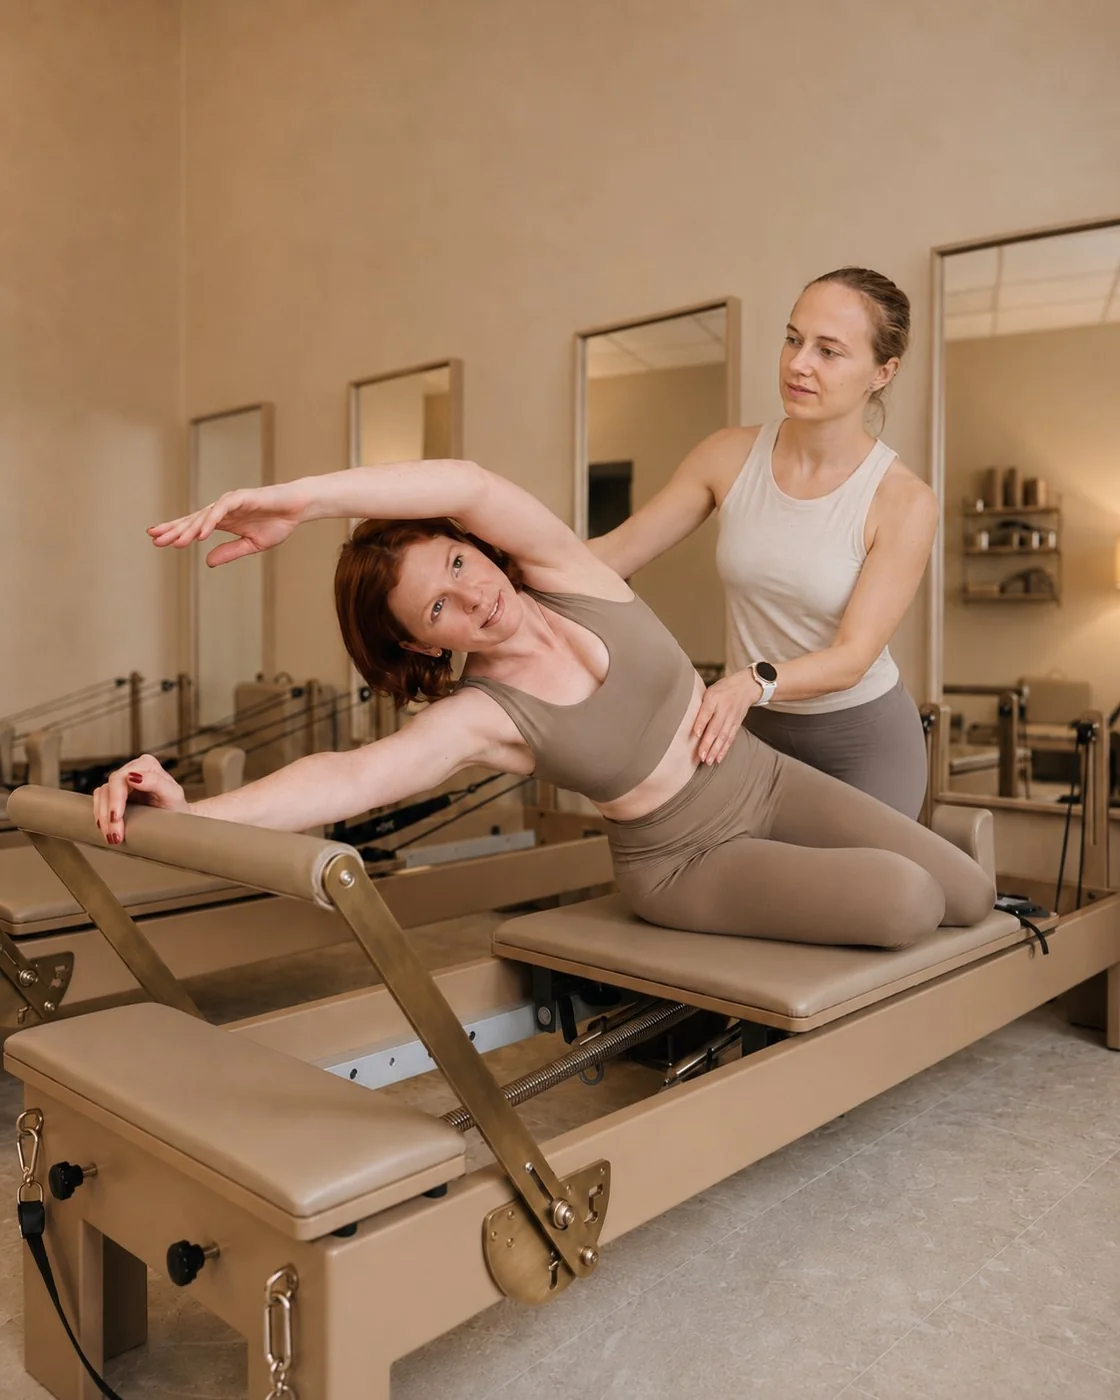
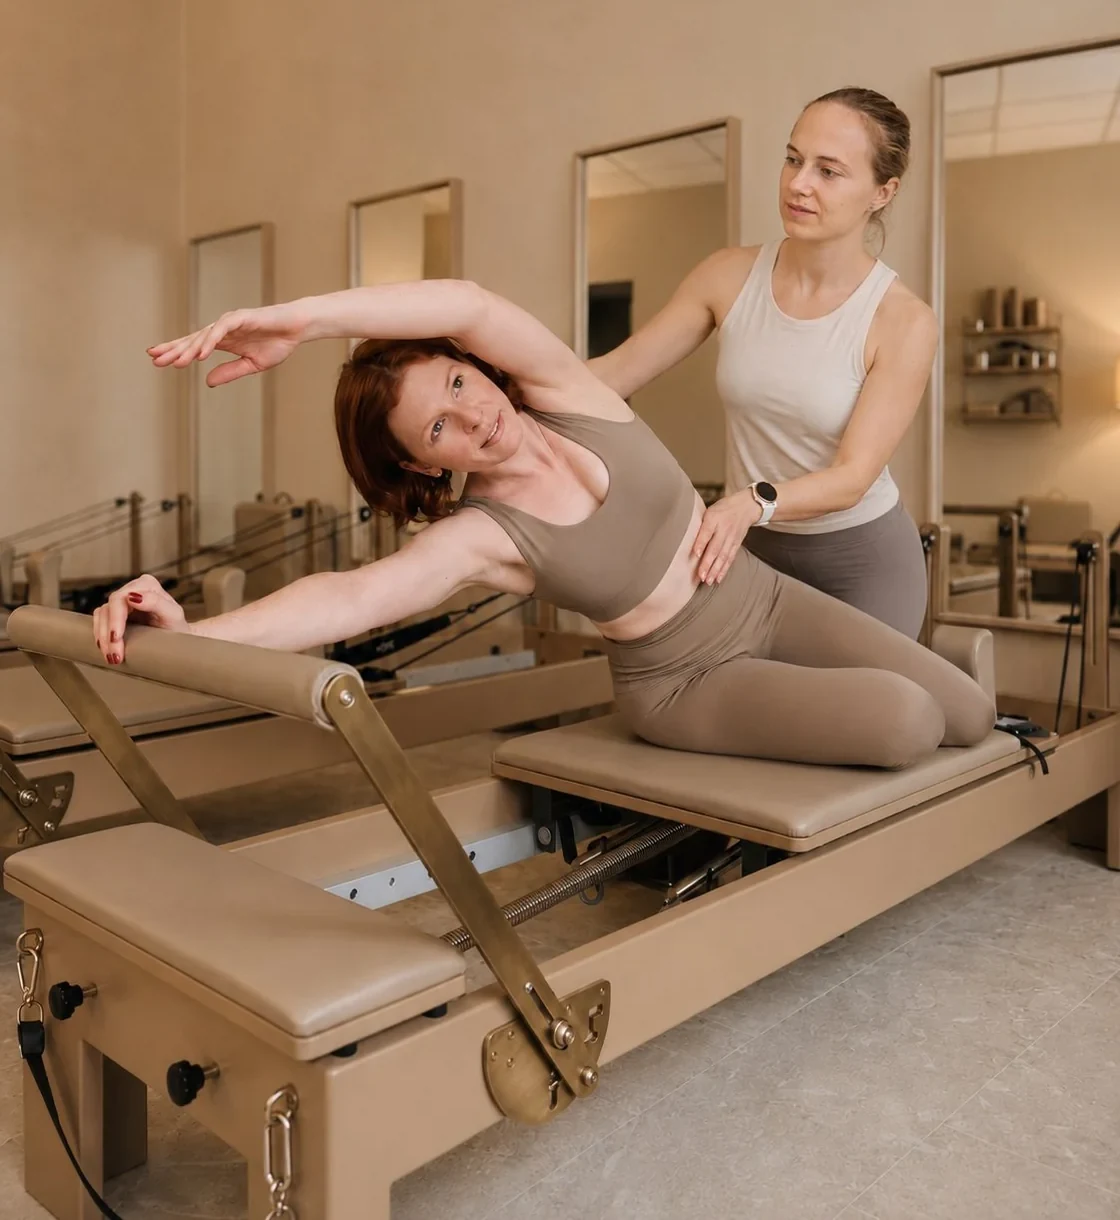
Physiocoaching-Foto: leere Wand oben abgeschnitten
Claude-Session: https://claude.ai/code/session_012ya1efxfL3v3X2e5rBHkD9

diff --git a/kurse.html b/kurse.html
@@ -122,14 +122,14 @@
 <link rel="stylesheet" href="https://fonts.googleapis.com/css2?family=Playfair+Display:ital,wght@0,400;0,500;1,400&family=Poppins:wght@300;400;500;600&display=swap">
 <link rel="stylesheet" href="/assets/site.css">
 <style>
-@media (min-width:700px){ .ku-breit{grid-column:1/-1} .ku-breit .bild{aspect-ratio:16/9} .ku-breit .bild img{object-position:center 30%!important} }
+@media (min-width:700px){ .ku-breit{grid-column:1/-1} .ku-breit .bild{aspect-ratio:16/9} .ku-breit .bild img{object-position:center 8%!important} }
 @media (min-width:1024px){
   .seite .raster:has(.ku-breit){grid-template-columns:repeat(3,minmax(0,1fr))}
   .ku-breit{display:grid;grid-template-columns:minmax(0,5fr) minmax(0,6fr);grid-template-rows:1fr repeat(5,auto) 1fr;column-gap:48px;min-height:460px}
   .ku-breit > *{grid-column:2}
   .ku-breit > :nth-child(2){grid-row:2}.ku-breit > :nth-child(3){grid-row:3}.ku-breit > :nth-child(4){grid-row:4}.ku-breit > :nth-child(5){grid-row:5}.ku-breit > :nth-child(6){grid-row:6}
   .ku-breit .bild{grid-column:1;grid-row:1/-1;margin:-24px 0 -24px -24px;aspect-ratio:auto;border-radius:4px 0 0 22px;position:relative;overflow:hidden}
-  .ku-breit .bild img{position:absolute;inset:0;object-position:center 30%}
+  .ku-breit .bild img{position:absolute;inset:0;object-position:center 8%}
   .ku-breit > .knopf{align-self:start;justify-self:start;width:auto;padding:0 28px}
   .ku-formate{display:grid;grid-template-columns:repeat(2,minmax(0,1fr));gap:0 56px;border-top:0}
   .ku-formate li{border-top:0;border-bottom:1px solid var(--line)}
@@ -210,7 +210,7 @@
       <a class="knopf hell mittel" href="/probetraining/?art=dropin">Zum Kursplan</a>
     </article>
     <article class="karte tint ku-breit">
-      <div class="bild"><img src="/private-reformer-class.webp" alt="Trainerin korrigiert eine Frau in seitlicher Dehnung auf dem Reformer" width="1120" height="1400" loading="lazy" decoding="async" style="object-position:center 35%"></div>
+      <div class="bild"><img src="/private-reformer-class.webp" alt="Trainerin korrigiert eine Frau in seitlicher Dehnung auf dem Reformer" width="1120" height="1220" loading="lazy" decoding="async" style="object-position:center 35%"></div>
       <p><span class="etikett voll">1:1 Physiocoaching</span></p>
       <h3 style="margin-top:8px">Physiocoaching – Private Reformer Class</h3>
       <p class="t">Deine persönliche 1:1 Einheit am Reformer – individuell abgestimmt auf dein Level, dein Körpergefühl und deine Ziele. Ob Einstieg, Technikvertiefung oder gezieltes Training: 60 Minuten ganz für dich, mit persönlicher Begleitung durch eine Trainerin.</p>

diff --git a/personal-training.html b/personal-training.html
@@ -104,7 +104,7 @@
     <a class="knopf" href="#finder">Finde deinen Physiocoach</a>
     <a class="knopf hell" href="#anfrage">Direkt anfragen</a>
   </div>
-  <div class="hero-bild"><img src="/private-reformer-class.webp" alt="Trainerin korrigiert eine Frau in seitlicher Dehnung auf dem Reformer" width="1120" height="1400" fetchpriority="high" decoding="async" style="object-position:center 35%"></div>
+  <div class="hero-bild"><img src="/private-reformer-class.webp" alt="Trainerin korrigiert eine Frau in seitlicher Dehnung auf dem Reformer" width="1120" height="1220" fetchpriority="high" decoding="async" style="object-position:center 35%"></div>
 </section>
 
 <section class="abschnitt" aria-labelledby="usp-h">

diff --git a/assets/site.css b/assets/site.css
@@ -358,7 +358,7 @@ body.menu-offen{overflow:hidden}
   .hero:has(.hero-bild) > *{grid-column:1}
   .hero:has(.hero-bild) > .hero-bild{grid-column:2;grid-row:1/span 8;margin-top:0;aspect-ratio:4/5;max-height:620px}
   .hero:has(.hero-bild) > .hero-bild.quer{aspect-ratio:5/4}
-  .hero-bild:not(.quer) img{object-position:center 30%}
+  .hero-bild:not(.quer) img{object-position:center 12%}
   .hero h1{font-size:clamp(44px,4.4vw,58px);line-height:1.07}
   .hero .lead{font-size:17px}
   .hero .knoepfe{max-width:none;margin-top:26px}
